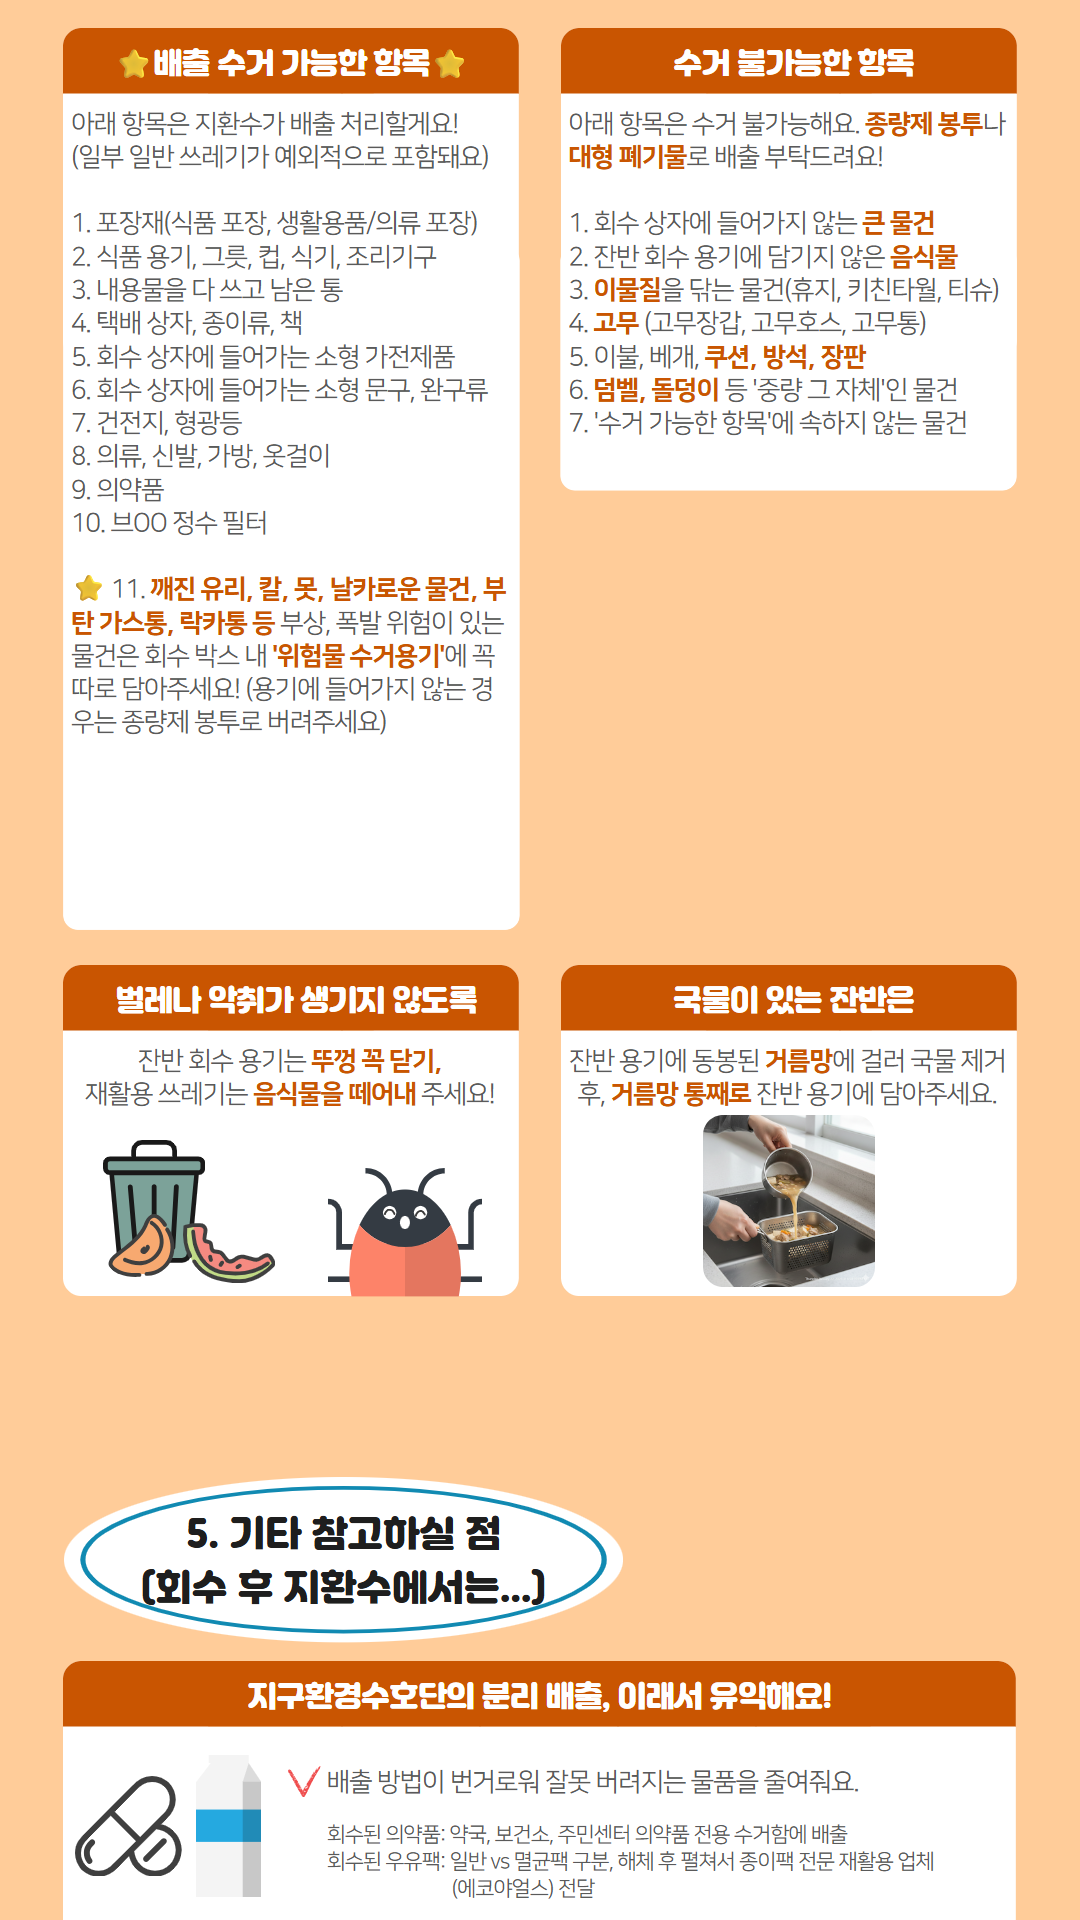
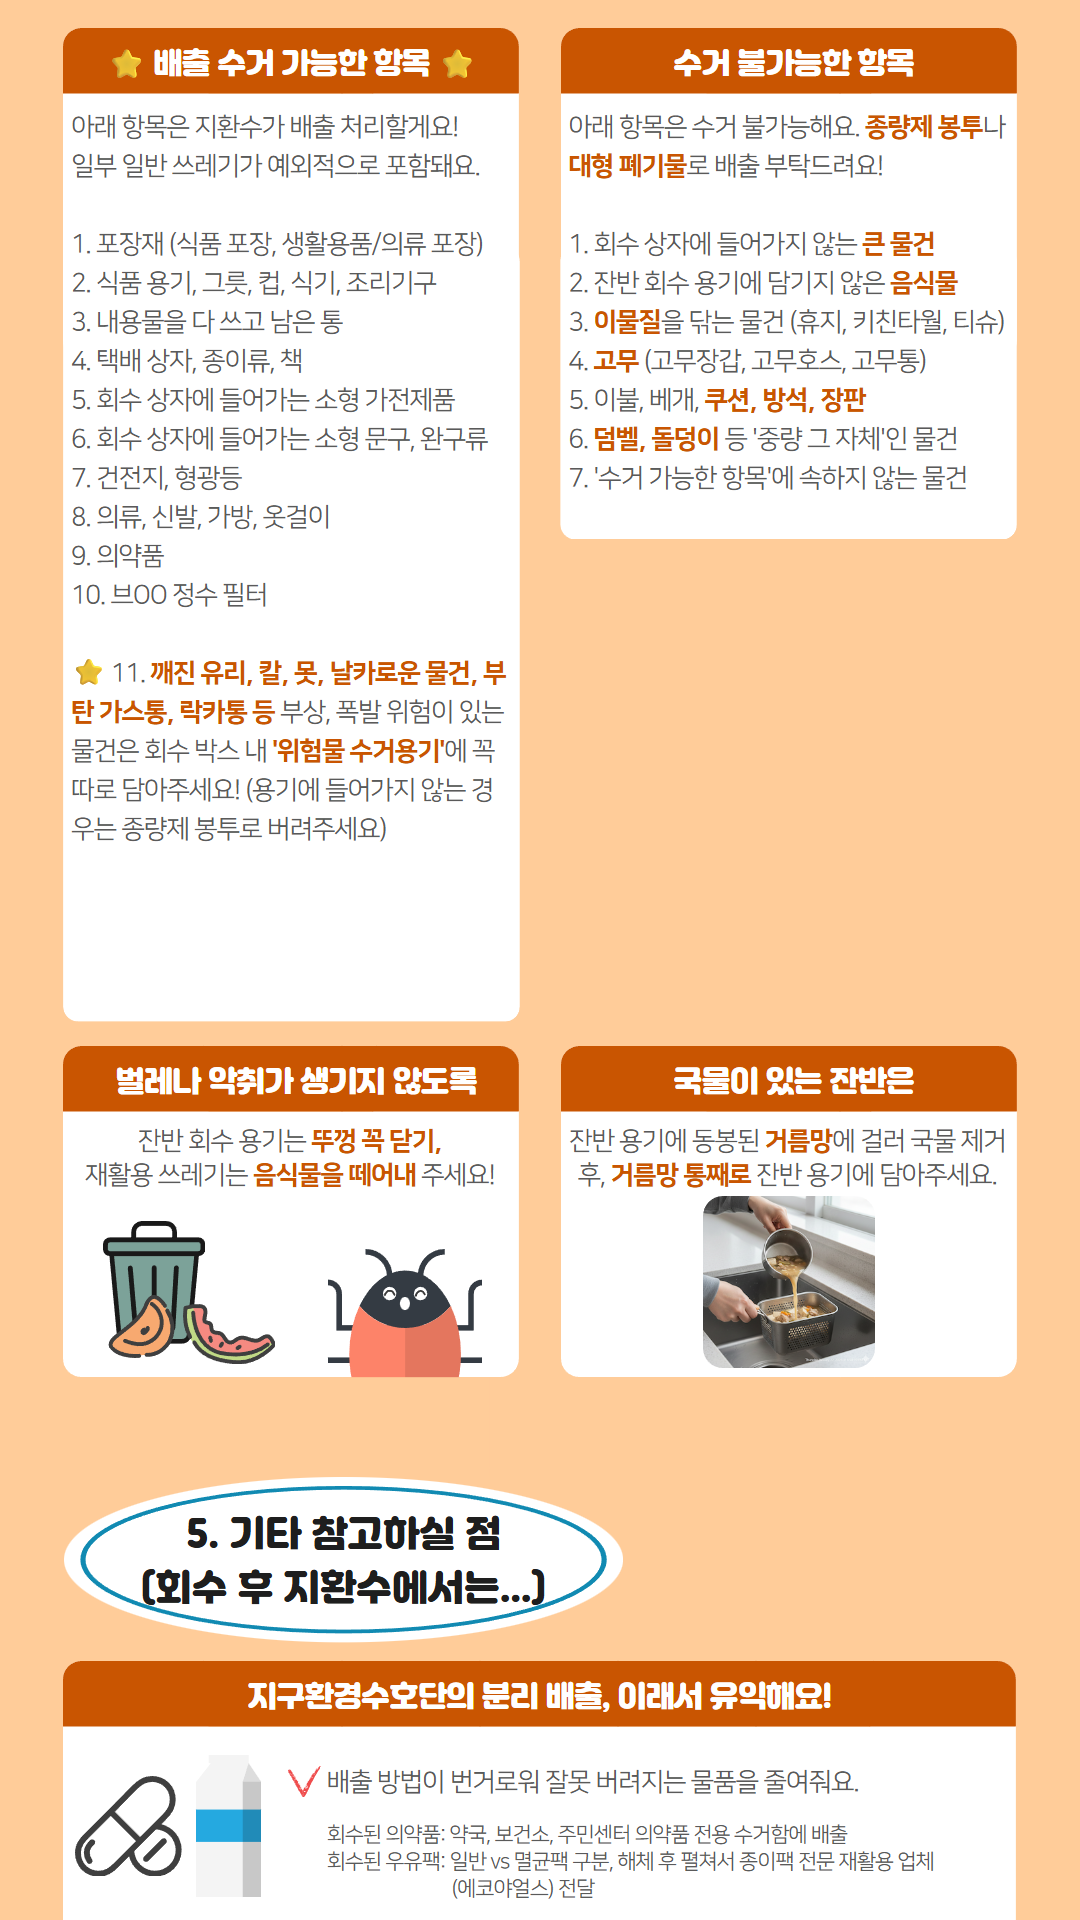
commit - pc용 이용 안내 이미지 조정

diff --git a/src/pages/HomePage.tsx b/src/pages/HomePage.tsx
@@ -142,7 +142,7 @@ export default function HomePage() {
         {/* PC용 이미지 (md 이상에서만 표시) */}
         <div className="hidden md:flex flex-col items-center">
           {/* how_to_use_1 with clickable overlay button */}
-          <div className="relative max-w-[1080px] w-full">
+          <div className="relative max-w-[810px] w-full">
             <img src={howToUse1} alt="이용방법 1" className="w-full" />
             {/* 호출하기 버튼 오버레이 - 이미지 내 버튼 위치에 맞게 조정 필요 */}
             <button
